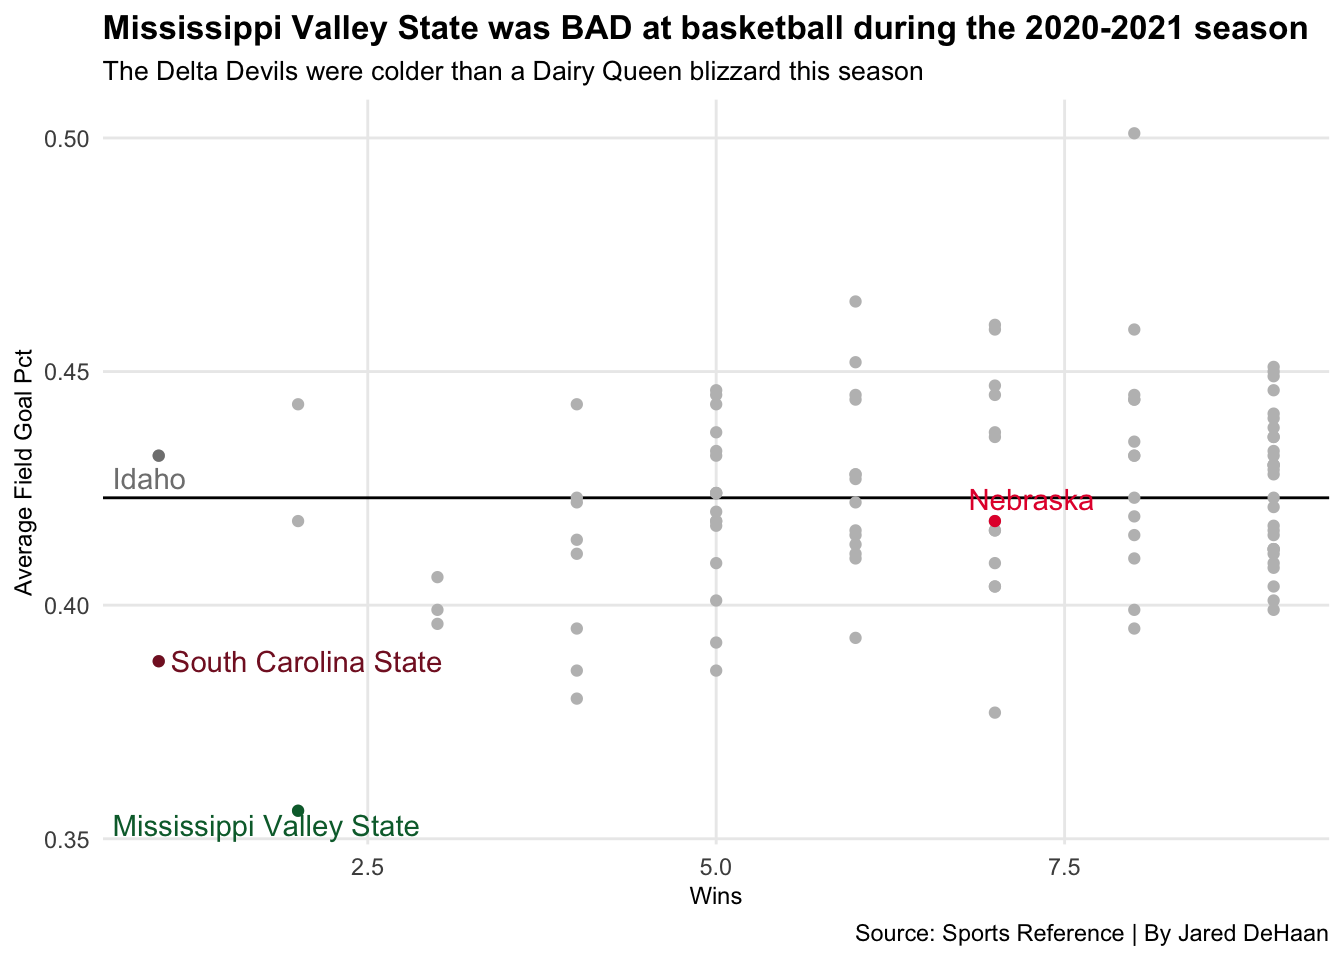
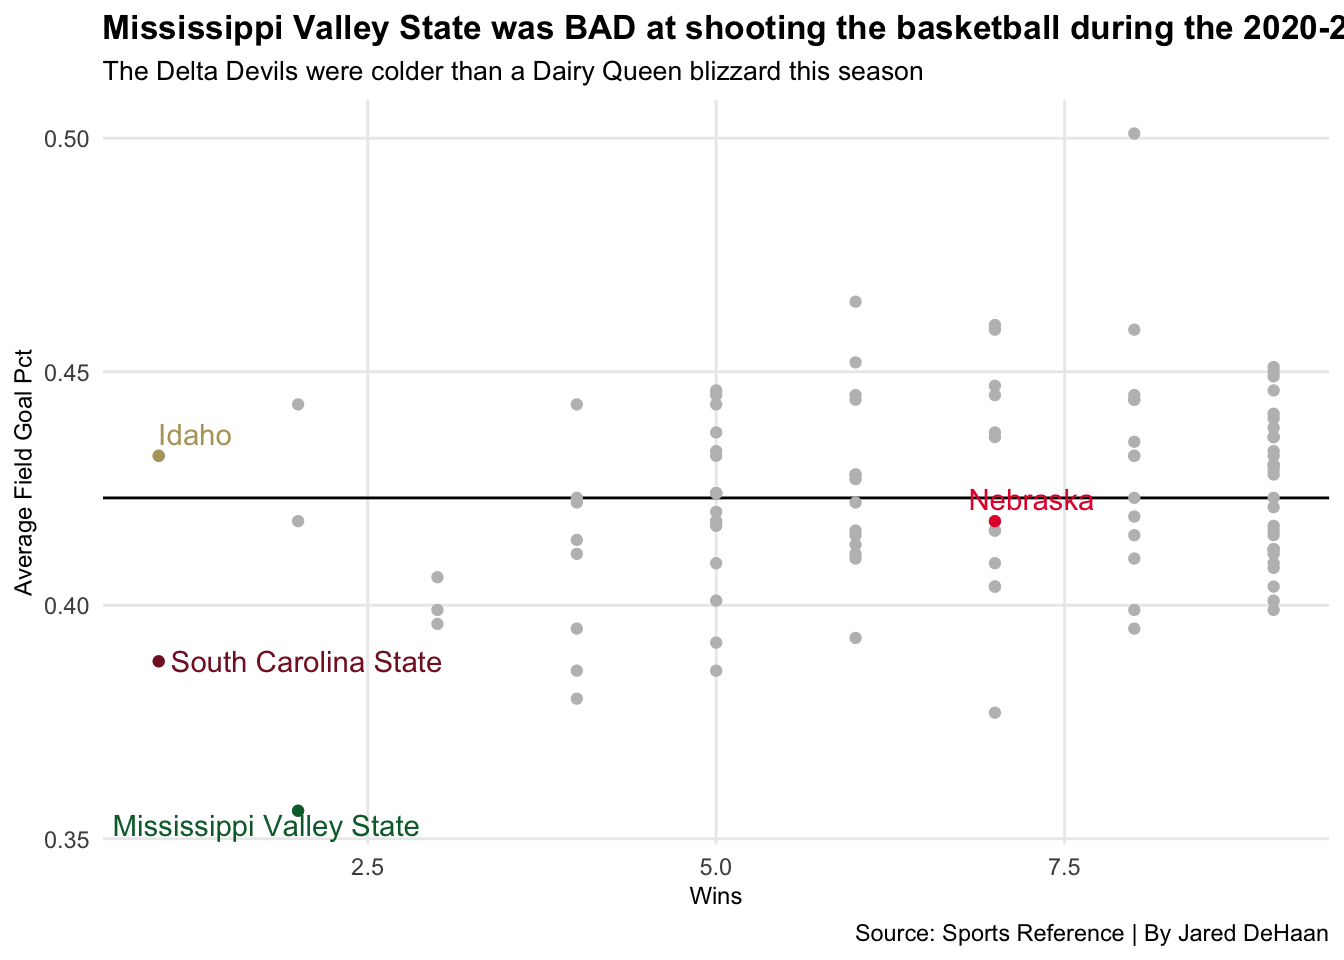
bad

diff --git a/2021/04/21/who-was-the-worst-college-basketball-team-this-season/index.html b/2021/04/21/who-was-the-worst-college-basketball-team-this-season/index.html
@@ -395,8 +395,7 @@ Tennessee-Martin
 </table>
 <pre class="r"><code>badteams &lt;- collegebballstats %&gt;%  
   group_by(School) %&gt;%
-  filter(OverallW &lt; 10) %&gt;%
-  filter(G &gt; 15) %&gt;%
+  filter(OverallW &lt; 10, G &gt; 15) %&gt;%
   mutate(avgfgpct = mean(`FG%`)) </code></pre>
 <pre class="r"><code>avgfgpct &lt;- badteams %&gt;% summarise(avgfgpct = mean(`FG%`))</code></pre>
 <pre class="r"><code>msvalleystate &lt;- badteams %&gt;% filter(School == &quot;Mississippi Valley State&quot;)
@@ -406,10 +405,10 @@ neb &lt;- badteams %&gt;%filter(School == &quot;Nebraska&quot;)</code></pre>
 <pre class="r"><code>ggplot(badteams, aes(x=`OverallW`, y=`avgfgpct`)) +
   geom_hline(yintercept = 0.4229808) +
 geom_point(color=&quot;grey&quot;) + 
-  labs(x=&quot;Wins&quot;, y=&quot;Average Field Goal Pct&quot;, title=&quot;Mississippi Valley State was BAD at basketball during the 2020-2021 season&quot;, subtitle=&quot;The Delta Devils were colder than a Dairy Queen blizzard this season&quot;, caption=&quot;Source: Sports Reference | By Jared DeHaan&quot;) + 
+  labs(x=&quot;Wins&quot;, y=&quot;Average Field Goal Pct&quot;, title=&quot;Mississippi Valley State was BAD at shooting the basketball during the 2020-2021 season&quot;, subtitle=&quot;The Delta Devils were colder than a Dairy Queen blizzard this season&quot;, caption=&quot;Source: Sports Reference | By Jared DeHaan&quot;) + 
   theme_minimal() + 
   theme(
-    plot.title = element_text(size = 12.5, face = &quot;bold&quot;),
+    plot.title = element_text(size = 12.6, face = &quot;bold&quot;),
     axis.title = element_text(size = 9), 
     plot.subtitle = element_text(size=10), 
     panel.grid.minor = element_blank()
@@ -418,11 +417,14 @@ geom_point(color=&quot;grey&quot;) +
   geom_text_repel(data=msvalleystate, aes(x=`OverallW`, y=`avgfgpct`, label=&quot;Mississippi Valley State&quot;), color=&quot;#046A38&quot;) + 
   geom_point(data=scstate, aes(x=`OverallW`, y=`avgfgpct`), color=&quot;#841A2B&quot;) + 
   geom_text_repel(data=scstate, aes(x=`OverallW`, y=`avgfgpct`, label=&quot;South Carolina State&quot;), color=&quot;#841A2B&quot;) +
-  geom_point(data=idaho, aes(x=`OverallW`, y=`avgfgpct`), color=&quot;#808080&quot;) + 
-  geom_text_repel(data=idaho, aes(x=`OverallW`, y=`avgfgpct`, label=&quot;Idaho&quot;), color=&quot;#808080&quot;) + 
+  geom_point(data=idaho, aes(x=`OverallW`, y=`avgfgpct`), color=&quot;#B3A369&quot;) + 
+  geom_text_repel(data=idaho, aes(x=`OverallW`, y=`avgfgpct`, label=&quot;Idaho&quot;), color=&quot;#B3A369&quot;) + 
    geom_point(data=neb, aes(x=`OverallW`, y=`avgfgpct`), color=&quot;#E41C38&quot;) + 
   geom_text_repel(data=neb, aes(x=`OverallW`, y=`avgfgpct`, label=&quot;Nebraska&quot;), color=&quot;#E41C38&quot;)</code></pre>
 <p><img src="/2021/04/21/who-was-the-worst-college-basketball-team-this-season/index_files/figure-html/unnamed-chunk-9-1.png" width="672" /></p>
+<pre class="r"><code>badftshootingteams &lt;- collegebballstats %&gt;%  
+  group_by(School) %&gt;%
+  filter(OverallW &lt; 10, G &gt; 15, `FT%` &lt; .65) </code></pre>
 
     </div>
   </article>
